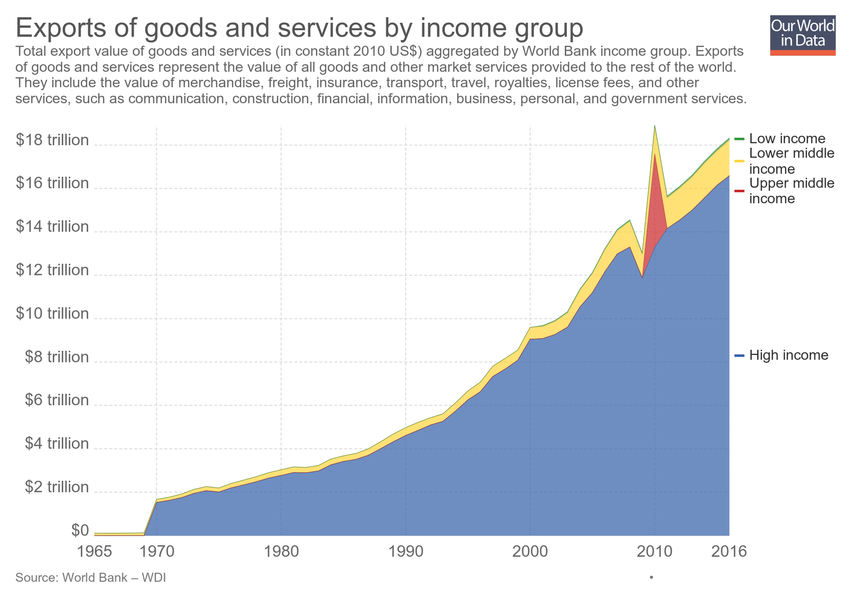
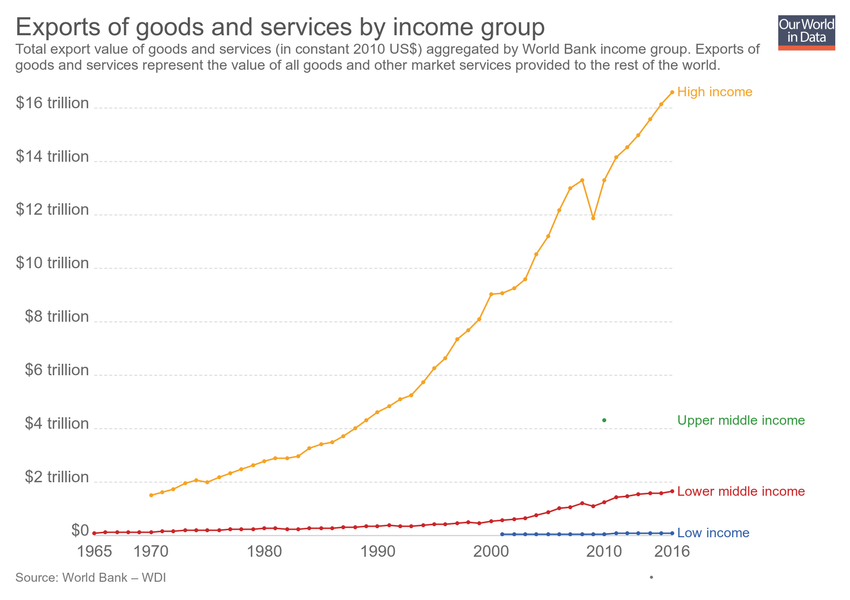
Updating chart exports-of-goods-and-services-income

diff --git a/grapher/exports-of-goods-and-services-income.html b/grapher/exports-of-goods-and-services-income.html
@@ -1,4 +1,4 @@
-<!doctype html><html><head><meta name="viewport" content="width=device-width, initial-scale=1" /><title>Exports of goods and services by income group - Our World in Data</title><meta name="description" content="Total export value of goods and services (in constant 2010 US$) aggregated by World Bank income group. Exports of goods and services represent the value of all goods and other market services provided to the rest of the world. " /><link rel="canonical" href="https://ourworldindata.org/grapher/exports-of-goods-and-services-income" /><meta property="fb:app_id" content="1149943818390250" /><meta property="og:url" content="https://ourworldindata.org/grapher/exports-of-goods-and-services-income" /><meta property="og:title" content="Exports of goods and services by income group" /><meta property="og:description" content="Total export value of goods and services (in constant 2010 US$) aggregated by World Bank income group. Exports of goods and services represent the value of all goods and other market services provided to the rest of the world. " /><meta property="og:image" content="https://ourworldindata.org/grapher/exports/exports-of-goods-and-services-income.png?v=2" /><meta property="og:image:width" content="850" /><meta property="og:image:height" content="600" /><meta property="og:site_name" content="Our World in Data" /><meta name="twitter:card" content="summary_large_image" /><meta name="twitter:site" content="@OurWorldInData" /><meta name="twitter:creator" content="@OurWorldInData" /><meta name="twitter:title" content="Exports of goods and services by income group" /><meta name="twitter:description" content="Total export value of goods and services (in constant 2010 US$) aggregated by World Bank income group. Exports of goods and services represent the value of all goods and other market services provided to the rest of the world. " /><meta name="twitter:image" content="https://ourworldindata.org/grapher/exports/exports-of-goods-and-services-income.png?v=2" /><style>
+<!doctype html><html><head><meta name="viewport" content="width=device-width, initial-scale=1" /><title>Exports of goods and services by income group - Our World in Data</title><meta name="description" content="Total export value of goods and services (in constant 2010 US$) aggregated by World Bank income group. Exports of goods and services represent the value of all goods and other market services provided to the rest of the world. " /><link rel="canonical" href="https://ourworldindata.org/grapher/exports-of-goods-and-services-income" /><meta property="fb:app_id" content="1149943818390250" /><meta property="og:url" content="https://ourworldindata.org/grapher/exports-of-goods-and-services-income" /><meta property="og:title" content="Exports of goods and services by income group" /><meta property="og:description" content="Total export value of goods and services (in constant 2010 US$) aggregated by World Bank income group. Exports of goods and services represent the value of all goods and other market services provided to the rest of the world. " /><meta property="og:image" content="https://ourworldindata.org/grapher/exports/exports-of-goods-and-services-income.png?v=3" /><meta property="og:image:width" content="850" /><meta property="og:image:height" content="600" /><meta property="og:site_name" content="Our World in Data" /><meta name="twitter:card" content="summary_large_image" /><meta name="twitter:site" content="@OurWorldInData" /><meta name="twitter:creator" content="@OurWorldInData" /><meta name="twitter:title" content="Exports of goods and services by income group" /><meta name="twitter:description" content="Total export value of goods and services (in constant 2010 US$) aggregated by World Bank income group. Exports of goods and services represent the value of all goods and other market services provided to the rest of the world. " /><meta name="twitter:image" content="https://ourworldindata.org/grapher/exports/exports-of-goods-and-services-income.png?v=3" /><style>
         html, body {
             height: 100%;
             margin: 0;
@@ -20,8 +20,8 @@
         }
     </style><noscript><style>
                     figure { display: none !important; }
-                </style></noscript><link rel="stylesheet" href="https://ourworldindata.org/grapher/assets/commons.bundle.ffce8fc1a6aa7e5a53c7.css" /><link rel="preload" href="/grapher/data/variables/2191.json?v=2" as="fetch" crossorigin /></head><body class="singleChart"><figure data-grapher-src="/grapher/exports-of-goods-and-services-income"></figure><noscript id="fallback"><img src="/grapher/exports/exports-of-goods-and-services-income.svg" /><p>Interactive visualization requires JavaScript</p></noscript><script src="https://cdn.polyfill.io/v2/polyfill.min.js?features=es6,fetch"></script><script src="https://ourworldindata.org/grapher/assets/commons.bundle.ffce8fc1a6aa7e5a53c7.js"></script><script src="https://ourworldindata.org/grapher/assets/charts.bundle.dcf65b68eddaba4c6a58.js"></script><script>
-        var jsonConfig = {"id":2023,"map":{"projection":"World","colorSchemeLabels":[],"colorSchemeValues":[],"defaultProjection":"World","colorSchemeMinValue":0,"customNumericColors":[],"customCategoryColors":{},"customCategoryLabels":{},"customHiddenCategories":{}},"tab":"chart","slug":"exports-of-goods-and-services-income","type":"StackedArea","title":"Exports of goods and services by income group","xAxis":{"scaleType":"linear"},"yAxis":{"min":0,"scaleType":"linear"},"version":2,"subtitle":"Total export value of goods and services (in constant 2010 US$) aggregated by World Bank income group. Exports of goods and services represent the value of all goods and other market services provided to the rest of the world. ","hasMapTab":false,"stackMode":"absolute","dimensions":[{"display":{},"property":"y","variableId":2191}],"hasChartTab":true,"isPublished":true,"selectedData":[{"index":0,"entityId":326},{"index":0,"entityId":327},{"index":0,"entityId":340},{"index":0,"entityId":320}],"addCountryMode":"disabled"};
+                </style></noscript><link rel="stylesheet" href="https://ourworldindata.org/grapher/assets/commons.bundle.ffce8fc1a6aa7e5a53c7.css" /><link rel="preload" href="/grapher/data/variables/2191.json?v=3" as="fetch" crossorigin /></head><body class="singleChart"><figure data-grapher-src="/grapher/exports-of-goods-and-services-income"></figure><noscript id="fallback"><img src="/grapher/exports/exports-of-goods-and-services-income.svg" /><p>Interactive visualization requires JavaScript</p></noscript><script src="https://cdn.polyfill.io/v2/polyfill.min.js?features=es6,fetch"></script><script src="https://ourworldindata.org/grapher/assets/commons.bundle.ffce8fc1a6aa7e5a53c7.js"></script><script src="https://ourworldindata.org/grapher/assets/charts.bundle.dcf65b68eddaba4c6a58.js"></script><script>
+        var jsonConfig = {"id":2023,"map":{"projection":"World","colorSchemeLabels":[],"colorSchemeValues":[],"colorSchemeMinValue":0,"customNumericColors":[],"customCategoryColors":{},"customCategoryLabels":{},"customHiddenCategories":{}},"tab":"chart","slug":"exports-of-goods-and-services-income","type":"LineChart","title":"Exports of goods and services by income group","xAxis":{"scaleType":"linear"},"yAxis":{"min":0,"scaleType":"linear"},"version":3,"subtitle":"Total export value of goods and services (in constant 2010 US$) aggregated by World Bank income group. Exports of goods and services represent the value of all goods and other market services provided to the rest of the world. ","hasMapTab":false,"stackMode":"absolute","dimensions":[{"display":{},"property":"y","variableId":2191}],"hasChartTab":true,"isPublished":true,"selectedData":[{"index":0,"entityId":326},{"index":0,"entityId":327},{"index":0,"entityId":340},{"index":0,"entityId":320}],"addCountryMode":"disabled"};
         var figure = document.getElementsByTagName("figure")[0];
         try {
             window.App = {};
